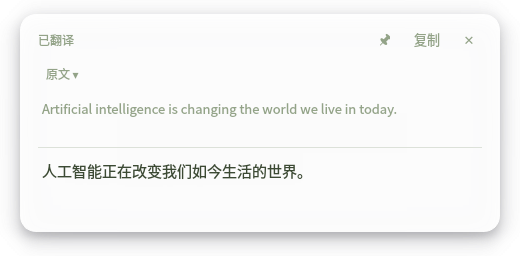
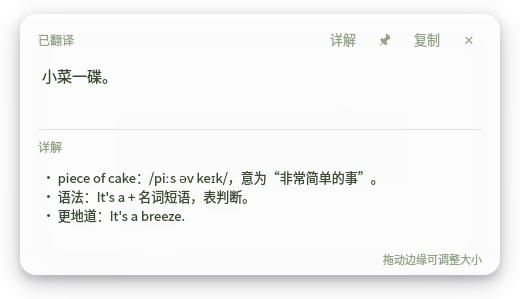
v0.12.0：下拉框防误触 + 下拉列表美化 + 一键更新弹窗 + 门户/README 同步
- 下拉框：悬停滚轮不再改选项（去 WheelFocus + 吞掉 wheelEvent 交给页面滚动），
  避免设置页误触；下拉列表改 QListView 并美化（圆角容器、绿色圆角选中/悬停项、行距）
- 更新简化：发现新版即弹窗「立即更新」，点一下 → 进度条下载 → 静默安装 → 自动重启，
  全程无需去官网；同版本只弹一次；设置页入口保留，统一走 app._start_update
- 门户：三大卡片纠正为 划词翻译(双击Ctrl+C)/截图翻译/反向写作（原写的划词气泡/复制翻译已删除），
  特性网格更新（免费引擎/智能方向/详解模式/一键更新），SEO 文案更新，刷新产品截图为当前 UI
- README 更新机制说明同步；135 测试全过

diff --git a/site/index.html b/site/index.html
@@ -4,9 +4,9 @@
 <meta charset="utf-8">
 <meta name="viewport" content="width=device-width, initial-scale=1">
 <title>Ivyea Translate — 随手即译的桌面 AI 翻译</title>
-<meta name="description" content="划词气泡、截图翻译、复制翻译。接入你自己的大模型，14 种语言、7 种风格，随手即译。Windows 桌面翻译软件。">
+<meta name="description" content="划词翻译（双击 Ctrl+C）、截图翻译、反向写作。内置免费引擎开箱即用，也可接自己的大模型。智能中英互译、14 种语言、7 种风格。Windows 桌面翻译软件。">
 <meta property="og:title" content="Ivyea Translate — 随手即译">
-<meta property="og:description" content="划词 · 截图 · 复制，接入你自己的大模型的桌面 AI 翻译。">
+<meta property="og:description" content="划词 · 截图 · 反向写作，内置免费引擎开箱即用的桌面 AI 翻译。">
 <meta property="og:image" content="https://translate.ivyea.com/assets/logo.png">
 <link rel="icon" href="assets/favicon.ico">
 <link rel="stylesheet" href="css/style.css">
@@ -74,8 +74,8 @@
             <path d="M15 20 c2-3 4-5 6-6" stroke="#fff" stroke-width="1.2"/>
           </svg>
         </div>
-        <h3>划词气泡</h3>
-        <p>选中任意文字，光标旁自然冒出一枚叶子图标——点一下，译文就在原文下方展开。不抢焦点，不打断阅读。</p>
+        <h3>划词翻译</h3>
+        <p>选中任意文字，<b>连按两次 Ctrl+C</b>，译文就在光标下方弹出。默认智能方向（中↔英自动），弹窗可拖动、可调大小；点「详解」还能看重点词读音、语法与更地道的说法。</p>
       </div>
       <div class="card">
         <div class="ico">
@@ -85,30 +85,29 @@
           </svg>
         </div>
         <h3>截图翻译</h3>
-        <p>框选屏幕任意区域，本地 OCR 识别后即刻翻译。译文弹窗永远长在框选区域<b>之外</b>，绝不遮挡原文。</p>
+        <p>按 Ctrl+Alt+S 框选屏幕任意区域，本地 OCR 识别后即刻翻译。译文弹窗永远长在框选区域<b>之外</b>，绝不遮挡原文。</p>
       </div>
       <div class="card">
         <div class="ico">
           <svg viewBox="0 0 32 32" width="34" height="34" fill="none" stroke="#5B9334" stroke-width="1.8" stroke-linecap="round" stroke-linejoin="round">
-            <rect x="10" y="10" width="16" height="18" rx="3"/>
-            <path d="M22 10 V8 a3 3 0 0 0 -3-3 H9 a3 3 0 0 0 -3 3 v12 a3 3 0 0 0 3 3 h1" opacity="0.55"/>
-            <path d="M14 17 h8 M14 21 h8 M14 25 h5"/>
+            <path d="M7 5 h13 l6 6 v16 a2 2 0 0 1 -2 2 H7 a2 2 0 0 1 -2 -2 V7 a2 2 0 0 1 2 -2 z" opacity="0.55"/>
+            <path d="M11 15 h10 M11 19 h10 M11 23 h6"/>
           </svg>
         </div>
-        <h3>复制翻译</h3>
-        <p>开启监听后，Ctrl+C 复制的任何文本自动弹出译文。读外文文档时，翻译几乎是零动作的。</p>
+        <h3>反向写作</h3>
+        <p>用母语写要点，生成地道的外语邮件 / 消息 / 评论 / 社媒贴文，并<b>回译校对</b>确认意思没跑偏。写外文再也不心虚。</p>
       </div>
     </div>
 
     <div class="grid">
-      <div class="cell"><b>模型自由</b><span>任意 OpenAI 兼容接口：DeepSeek、OpenAI、OpenRouter、硅基流动或自建，Key 只存在你本机</span></div>
-      <div class="cell"><b>14 种语言</b><span>中英日韩法德西俄等互译，流式输出，边译边读</span></div>
-      <div class="cell"><b>7 种风格</b><span>美式 / 英式 / 正式 / 口语 / 学术 / 简洁，语体随场景切换</span></div>
+      <div class="cell"><b>免费引擎，开箱即用</b><span>内置 DeepL / Google / 必应 自动回退，装完不配置也能翻</span></div>
+      <div class="cell"><b>接自己的大模型</b><span>任意 OpenAI 兼容接口：DeepSeek、OpenAI、OpenRouter、硅基流动或自建，Key 只存本机</span></div>
+      <div class="cell"><b>智能方向</b><span>目标语言设为「自动」：选中中文→英文、其余→中文，无需手动切</span></div>
+      <div class="cell"><b>14 种语言 · 7 种风格</b><span>中英日韩法德西俄等互译；美式/英式/正式/口语/学术/简洁</span></div>
       <div class="cell"><b>本地 OCR</b><span>截图识别在本机完成，图片不上传任何服务器</span></div>
-      <div class="cell"><b>弹窗可塑</b><span>可拖动、可钉住、可调大小，译文历史自动沉淀</span></div>
-      <div class="cell"><b>轻量常驻</b><span>托盘常驻，全局快捷键可自定义，冲突逐条提示</span></div>
-      <div class="cell"><b>邮件助手</b><span>草稿一键重写成目标语言的地道邮件并自动总结主题，商务/友好/催促等六种语气</span></div>
-      <div class="cell"><b>自动更新</b><span>新版本托盘提示，一键静默升级自动重启</span></div>
+      <div class="cell"><b>详解模式</b><span>弹窗一键展开重点词读音、语法与更地道的说法，翻译顺手学外语</span></div>
+      <div class="cell"><b>弹窗可塑</b><span>可拖动、可钉住、边缘拖拽调大小，译文历史自动沉淀</span></div>
+      <div class="cell"><b>一键自动更新</b><span>新版本弹窗提示，点一下后台下载、静默安装、自动重启，无需去官网</span></div>
     </div>
   </section>
 

diff --git a/ivyea_translate/app.py b/ivyea_translate/app.py
@@ -340,14 +340,71 @@ class TranslateApp(QApplication):
         self._upd_checker.start()
 
     def _on_update_found(self, feed: dict) -> None:
-        self.window.show_update_available(feed)
-        if self.tray:
-            self.tray.showMessage(
-                "Ivyea Translate",
-                f"发现新版本 v{feed['version']}，可在设置页一键更新",
-                QSystemTrayIcon.Information,
-                4000,
-            )
+        self.window.show_update_available(feed)  # 设置页也留一个入口
+        # 同一版本只主动弹一次，避免每次启动打扰
+        if str(feed.get("version")) == str(self.cfg.get("update.prompted_version", "")):
+            return
+        self.cfg.set("update.prompted_version", feed.get("version", ""))
+        self.cfg.save()
+        from PySide6.QtWidgets import QMessageBox
+
+        box = QMessageBox(self.window)
+        box.setWindowTitle("发现新版本")
+        box.setIcon(QMessageBox.Information)
+        notes = (feed.get("notes") or "").strip()
+        text = (f"Ivyea Translate v{feed['version']} 可用。\n\n"
+                "点「立即更新」将自动下载并安装，完成后自动重启——无需手动去官网下载。")
+        if notes:
+            text += f"\n\n更新内容：\n{notes[:280]}"
+        box.setText(text)
+        now_btn = box.addButton("立即更新", QMessageBox.AcceptRole)
+        box.addButton("以后", QMessageBox.RejectRole)
+        box.exec()
+        if box.clickedButton() is now_btn:
+            self._start_update(feed)
+
+    def _start_update(self, feed: dict) -> None:
+        """一键更新：下载(进度条)→静默安装→自动重启。便携版引导到官网。"""
+        from PySide6.QtGui import QDesktopServices
+        from PySide6.QtCore import QUrl
+        from PySide6.QtWidgets import QMessageBox, QProgressDialog
+        from .updater import UpdateDownloader, apply_update_and_quit, is_installed_copy
+
+        if not is_installed_copy():
+            QMessageBox.information(
+                self.window, "更新",
+                "便携版无法自替换，请到官网下载新版覆盖使用。")
+            QDesktopServices.openUrl(QUrl(feed.get("page_url", "https://translate.ivyea.com/")))
+            return
+
+        dlg = QProgressDialog("正在下载新版本…", "取消", 0, 100, self.window)
+        dlg.setWindowTitle("更新 Ivyea Translate")
+        dlg.setMinimumWidth(380)
+        dlg.setAutoClose(False)
+        dlg.setAutoReset(False)
+        self._upd_cancelled = False
+        dlg.canceled.connect(lambda: setattr(self, "_upd_cancelled", True))
+
+        dl = UpdateDownloader(feed["setup_url"], feed["version"], parent=self)
+        self._update_dl = dl
+        dl.progress.connect(dlg.setValue)
+
+        def done(path):
+            if self._upd_cancelled:
+                return
+            dlg.setLabelText("下载完成，正在安装并重启…")
+            dlg.setValue(100)
+            apply_update_and_quit(path, self.request_quit)
+
+        def failed(msg):
+            dlg.close()
+            if not self._upd_cancelled:
+                QMessageBox.warning(self.window, "更新失败", f"{msg}\n可稍后重试，或到官网手动下载。")
+
+        dl.finished_ok.connect(done)
+        dl.failed.connect(failed)
+        dl.start()
+        dlg.show()
 
     # ---------- 退出 ----------
 

diff --git a/ivyea_translate/ui/main_window.py b/ivyea_translate/ui/main_window.py
@@ -15,6 +15,7 @@ from PySide6.QtWidgets import (
     QHBoxLayout,
     QLabel,
     QLineEdit,
+    QListView,
     QListWidget,
     QListWidgetItem,
     QMainWindow,
@@ -30,6 +31,19 @@ from ..config import Config, LANGUAGES, PROVIDER_PRESETS, STYLES
 from ..llm import LLMError, client_from_config
 from ..translator import TranslateWorker
 from . import theme
+
+
+class QComboBox(QComboBox):  # noqa: F811  —— 全模块下拉框统一为"悬停滚轮不改值"
+    """悬停时滚轮不改选项（避免误触），并把滚轮交给父级滚动页面；
+    下拉列表用 QListView 以保证 QSS 美化生效。"""
+
+    def __init__(self, parent=None):
+        super().__init__(parent)
+        self.setFocusPolicy(Qt.StrongFocus)  # 去掉 WheelFocus：滚轮不再聚焦到它
+        self.setView(QListView())
+
+    def wheelEvent(self, event):
+        event.ignore()  # 不消费滚轮 -> 冒泡给 QScrollArea 滚动页面
 
 
 def _glass_card() -> QWidget:
@@ -805,38 +819,14 @@ class MainWindow(QMainWindow):
         self.update_btn.setVisible(True)
 
     def _on_apply_update(self) -> None:
-        from ..updater import UpdateDownloader, apply_update_and_quit, is_installed_copy
-
         feed = getattr(self, "_update_feed", None)
         if not feed:
             return
-        if not is_installed_copy():
-            # 便携版/源码运行：打开官网下载页
-            from PySide6.QtGui import QDesktopServices
-            from PySide6.QtCore import QUrl
-
-            QDesktopServices.openUrl(QUrl(feed.get("page_url", "https://translate.ivyea.com/")))
-            return
-        self.update_btn.setEnabled(False)
-        self.update_status.setText("下载中… 0%")
-        self._update_dl = UpdateDownloader(feed["setup_url"], feed["version"], parent=self)
-        self._update_dl.progress.connect(
-            lambda pct: self.update_status.setText(f"下载中… {pct}%")
-        )
-        self._update_dl.failed.connect(
-            lambda msg: (self.update_btn.setEnabled(True), self.update_status.setText(msg))
-        )
-        self._update_dl.finished_ok.connect(self._on_update_downloaded)
-        self._update_dl.start()
-
-    def _on_update_downloaded(self, setup_path: str) -> None:
-        from ..updater import apply_update_and_quit
         from PySide6.QtWidgets import QApplication
 
-        self.update_status.setText("安装中，应用即将重启…")
         app = QApplication.instance()
-        quit_cb = getattr(app, "request_quit", app.quit)
-        apply_update_and_quit(setup_path, quit_cb)
+        if app is not None and hasattr(app, "_start_update"):
+            app._start_update(feed)  # 统一走 app 的一键更新（进度条→静默安装→重启）
 
     def _on_preset_changed(self) -> None:
         key = self.preset_combo.currentData()

diff --git a/ivyea_translate/ui/theme.py b/ivyea_translate/ui/theme.py
@@ -153,13 +153,27 @@ QComboBox::down-arrow {{
     margin-right: 8px;
 }}
 QComboBox QAbstractItemView {{
-    background: white;
-    border: 1px solid rgba(0, 0, 0, 0.06);
+    background: #FFFFFF;
+    border: 1px solid rgba(107, 165, 63, 0.22);
     border-radius: {RADIUS_SM}px;
-    padding: 4px;
-    selection-background-color: {ACCENT_SOFT};
-    selection-color: {TEXT_PRIMARY};
+    padding: 6px;
+    selection-background-color: transparent;
     outline: none;
+}}
+QComboBox QAbstractItemView::item {{
+    min-height: 30px;
+    padding: 6px 12px;
+    margin: 1px 2px;
+    border-radius: 8px;
+    color: {TEXT_PRIMARY};
+}}
+QComboBox QAbstractItemView::item:hover {{
+    background: {ACCENT_SOFT};
+    color: {ACCENT_HOVER};
+}}
+QComboBox QAbstractItemView::item:selected {{
+    background: {ACCENT};
+    color: white;
 }}
 QCheckBox {{
     spacing: 8px;

diff --git a/ivyea_translate/__init__.py b/ivyea_translate/__init__.py
@@ -1,3 +1,3 @@
 """Ivyea Translate — 桌面 AI 翻译（划词 / 复制 / 截图 / 主窗口）。"""
 
-__version__ = "0.11.0"
+__version__ = "0.12.0"

diff --git a/ivyea_translate/config.py b/ivyea_translate/config.py
@@ -118,6 +118,7 @@ DEFAULT_CONFIG: Dict[str, Any] = {
     "update": {
         "auto_check": True,
         "feed_url": "https://translate.ivyea.com/download/version.json",
+        "prompted_version": "",   # 已弹过更新提示的版本，避免每次启动都弹
     },
     "onboarded": False,  # 首次启动显示上手引导后置 True
 }

diff --git a/README.md b/README.md
@@ -29,7 +29,7 @@
 ## 自动更新
 
 安装版应用启动后会静默检查更新（源：`https://translate.ivyea.com/download/version.json`），
-发现新版会在托盘提示，设置页「关于与更新」一键完成：下载（带进度）→ 静默安装 → 自动重启。
+发现新版会弹窗提示，点「立即更新」即自动下载（带进度）→ 静默安装 → 自动重启，全程无需去官网；设置页「关于与更新」也留了入口。
 便携版会引导到官网下载新版。可在配置里关闭 `update.auto_check`。
 
 发版流程（维护者）：推 `v*` tag → GitHub Actions 云端构建并挂 Release →